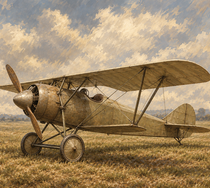
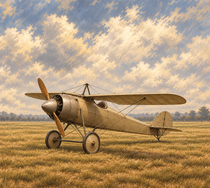
Correct five unit portraits to match their subjects
Replace the transport locomotive, low unmarked armoured car, two-turret battleship, Morane Type N monoplane and two-pusher Gotha G.Vb paintings. Install all 15 native portrait exports, update pinned manifests and record the all-48 portrait audit and remaining comparisons in PLAN.md.

diff --git a/art/portraits/armored-car/prompt.md b/art/portraits/armored-car/prompt.md
@@ -2,21 +2,17 @@
 id: portraits/armored-car
 title: Armoured car
 kind: portrait
-status: candidate
+status: revised
 runtime_ids: CP_armCar
 masters: portrait.png
 ---
 
 ## Look
-Owner-neutral picture of the unit shown in the unit panel at 210x188: a riveted armoured car with a small turret,
+Owner-neutral picture of the unit shown in the unit panel at 210x188: a low riveted armoured car with a small round turret,
 in a quiet period scene with subdued ochre and sepia values under a pale cloudy sky.
 
 ## Base prompt
-Asset: owner-neutral WWI strategy unit portrait. Scene: a tall, narrow WWI armoured car seen nearly head-on from slightly front-left: dark bonnet low in the centre, a riveted tall turret upper right, a spoked wheel on the right; broad, pale, cloudy
-ochre sky. Paint wool, leather, wood, metal and natural surfaces with restrained connected brushwork
-and selective detail. Fully opaque full-bleed landscape illustration at 105:94, at least 1260x1128,
-preferably 1680x1504, the essential subject safe inside the centred 105:94 crop; extend the scene
-naturally to all edges.
+Use case: historical-scene. Create ONE newly authored opaque full-bleed WWI strategy game UNIT PORTRAIT, landscape aspect105:94, ideally1680x1504 or larger. Same restrained ochre, sepia, khaki, olive and sage palette and continuous hand-painted digital brushwork as reference portrait. Pale cloudy sky, diffuse light from upper left, quiet period scene, crisp readable subject at210x188 with selective mechanical detail. Complete principal subject fits inside safe centred105:94 crop. Reference atlas is EQUIPMENT/IDENTITY reference only: replace its technical magenta with natural unmarked khaki/grey paint and use a normal low three-quarter scene camera, NOT the six-view layout. No text, numbers, letters, flags, crosses, insignia, emblems, national colours, faction tint, frames, UI, watermarks, photo, pixel art or3D render. Exactly one complete main vehicle. Subject: the WWI armoured car matching reference atlas: ONE low compact riveted rectangular armoured body with sloping long bonnet at FRONT, square radiator grille and TWO round brass headlights, FOUR narrow exposed spoked wheels TOTAL (two per side), ONE small LOW circular cylindrical turret near rear half with ONE short dark machine gun, rectangular rear compartment and riveted access door. No tall tower, stacked turret or high armoured lorry cab. Natural subdued khaki/olive armour, dark tyres, brass hardware. All panels entirely plain and unmarked; ABSOLUTELY NO crosses, flags, symbols, decals, badges, logos, letters or numbers anywhere. Parked on quiet rural dirt lane, low front-left three-quarter view, front pointing LEFT, complete vehicle visible including all visible wheels and gun, distant trees and pale cloudy sky.
 
 ## Variants
 | Variant | Runtime IDs | Prompt delta |
@@ -26,7 +22,8 @@ naturally to all edges.
 ## Post
 `art-review -portrait art/pipeline/portrait-armored-car-v1.json` takes the largest exact centred 105:94
 crop and reduces it with Lanczos3 to 4x (840x752), 2x (420x376) and 1x (210x188) as
-`portrait/armored-car`. Promote into `assets/portraits/armored-car/` and re-index.
+`portrait/armored-car`. Selected exports are installed under `assets/portraits/armored-car/`.
+Gameplay binding remains `CP_armCar`; in-engine panel acceptance is open.
 
 ## Avoid
 - national colours, flags, insignia or faction tint

diff --git a/art/portraits/transport-train/prompt.md b/art/portraits/transport-train/prompt.md
@@ -2,7 +2,7 @@
 id: portraits/transport-train
 title: Transport train
 kind: portrait
-status: candidate
+status: revised
 runtime_ids: CP_transTrain
 masters: portrait.png
 ---
@@ -12,11 +12,7 @@ Owner-neutral picture of the unit shown in the unit panel at 210x188: a single c
 in a quiet period scene with subdued ochre and sepia values under a pale cloudy sky.
 
 ## Base prompt
-Asset: owner-neutral WWI strategy unit portrait. Scene: a railway platform worksite: three foreground workmen in pale shirts and caps, the central one leaning over a long tool, more workmen receding to the right; broad, pale, cloudy
-ochre sky. Paint wool, leather, wood, metal and natural surfaces with restrained connected brushwork
-and selective detail. Fully opaque full-bleed landscape illustration at 105:94, at least 1260x1128,
-preferably 1680x1504, the essential subject safe inside the centred 105:94 crop; extend the scene
-naturally to all edges.
+Use case: historical-scene. Create ONE newly authored opaque full-bleed WWI strategy game UNIT PORTRAIT, landscape aspect105:94, ideally1680x1504 or larger. Same restrained ochre, sepia, khaki, olive and sage palette and continuous hand-painted digital brushwork as reference portrait. Pale cloudy sky, diffuse light from upper left, quiet period scene, crisp readable subject at210x188 with selective mechanical detail. Complete principal subject fits inside safe centred105:94 crop. Reference atlas is EQUIPMENT/IDENTITY reference only: replace its technical magenta with natural unmarked khaki/grey paint and use a normal low three-quarter scene camera, NOT the six-view layout. No text, numbers, letters, flags, crosses, insignia, emblems, national colours, faction tint, frames, UI, watermarks, photo, pixel art or3D render. Exactly one complete main vehicle. Subject: the compact WWI transport STEAM LOCOMOTIVE from reference atlas. A single short black riveted steam tank locomotive, round horizontal boiler at FRONT, ONE tall narrow cylindrical chimney, ONE steam dome, a compact boxy enclosed rear cab with curved roof, coal bunker immediately behind cab, SIX large driving wheels TOTAL (three per side), connecting rods, buffer beams with two round buffers and hook coupling. Natural blackened steel boiler, muted olive/brown cab, brass valves; sacks and wooden crates beside track. Complete locomotive on rural European standard-gauge track, its front to LEFT, low three-quarter front-left view, grassy railway verge, distant small station under cloudy sky. Engine is entire main subject centred and fills lower two-thirds. No passenger coaches or people dominating foreground; not a workmen portrait. No locomotive cropped or hidden.
 
 ## Variants
 | Variant | Runtime IDs | Prompt delta |
@@ -26,7 +22,8 @@ naturally to all edges.
 ## Post
 `art-review -portrait art/pipeline/portrait-transport-train-v1.json` takes the largest exact centred 105:94
 crop and reduces it with Lanczos3 to 4x (840x752), 2x (420x376) and 1x (210x188) as
-`portrait/transport-train`. Promote into `assets/portraits/transport-train/` and re-index.
+`portrait/transport-train`. Selected exports are installed under `assets/portraits/transport-train/`.
+Gameplay binding remains `CP_transTrain`; in-engine panel acceptance is open.
 
 ## Avoid
 - national colours, flags, insignia or faction tint

diff --git a/art/portraits/morane-saulnier-n/prompt.md b/art/portraits/morane-saulnier-n/prompt.md
@@ -12,7 +12,8 @@ Owner-neutral morane-saulnier n in a quiet period scene, matching the existing p
 paintings' subdued ochre and sepia palette, cloudy sky and connected brushwork.
 
 ## Base prompt
-Newly authored opaque full-bleed WWI strategy-game unit portrait, 105:94 landscape aspect ideally 1680x1504 or larger. Match the reference portraits: subdued ochre, sepia, khaki, olive and sage; broad connected hand-painted digital brushwork with selective fine mechanical detail; pale cloudy sky and diffuse light from upper left. Rural Europe 1914–1918, calm period scene, owner-neutral. Central subject fully visible and readable at 210x188, safe centered crop. No text, letters, numbers, insignia, flags, faction tint, borders, frame, UI, watermark, pixel art, photograph or 3D render. Subject: A Morane-Saulnier Type N shoulder-wing monoplane with wire bracing, rounded short fuselage and distinctive large blunt bullet spinner, open cockpit and fixed spoked wheels. Single complete aircraft parked on a grassy airfield, nose to the left, low eye-level three-quarter side view, full wings and tail within canvas, natural unmarked khaki fabric and metal; no duplicate aircraft.
+Use case: historical-scene. Create ONE newly authored opaque full-bleed WWI strategy game UNIT PORTRAIT, landscape aspect105:94, ideally1680x1504 or larger. Same restrained ochre, sepia, khaki, olive and sage palette and continuous hand-painted digital brushwork as reference portrait. Pale cloudy sky, diffuse light from upper left, quiet period scene, crisp readable subject at210x188 with selective mechanical detail. Complete principal subject fits inside safe centred105:94 crop. Reference painting is STYLE only; its incorrect biplane structure must NOT be copied. No text, numbers, letters, flags, crosses, insignia, emblems, national colours, faction tint, frames, UI, watermarks, photo, pixel art or3D render. Exactly one complete main vehicle. Subject: a Morane-Saulnier Type N single-seat MONOPLANE fighter parked on grassy WWI airfield, nose LEFT, low front-left three-quarter side view. Exactly ONE pair of shoulder-mounted MAIN WINGS, one left and one right at the SAME single height, each joining the upper sides of rounded fuselage. NO upper/lower stacked wings and NO interplane struts or second wing under fuselage. Fine wire bracing from a small kingpost above fuselage to the single wings, and from undercarriage to wings. Compact rounded tapered fuselage, distinctive LARGE blunt bullet-shaped nose spinner covering most rotary engine, TWO natural wooden propeller blades at the FRONT, ONE open cockpit aft of wing, small round fin, two spoked fixed wheels, low tail skid. Natural unmarked tan/khaki fabric and metal. Wings, propeller, wheels and tail complete inside canvas. Tiny rear tailplane is distinct from the sole main wing; no second main wing.
+Framing: aircraft occupies no more than75% of canvas width; generous grassy/sky margins around every extremity, safe inside centred105:94 crop.
 
 ## Variants
 | Variant | Runtime IDs | Prompt delta |

diff --git a/art/portraits/battleship/prompt.md b/art/portraits/battleship/prompt.md
@@ -8,11 +8,11 @@ masters: portrait.png
 ---
 
 ## Look
-Owner-neutral battleship in a quiet period scene, matching the existing portrait
-paintings' subdued ochre and sepia palette, cloudy sky and connected brushwork.
+Owner-neutral battleship with two twin-gun turrets, two funnels and one mast, matching the
+selected tactical sprite in a quiet coastal scene with subdued ochre and sepia brushwork.
 
 ## Base prompt
-Newly authored opaque full-bleed WWI strategy-game unit portrait, 105:94 landscape aspect ideally 1680x1504 or larger. Match the reference portraits: subdued ochre, sepia, khaki, olive and sage; broad connected hand-painted digital brushwork with selective fine mechanical detail; pale cloudy sky and diffuse light from upper left. Rural Europe 1914–1918, calm period scene, owner-neutral. Central subject fully visible and readable at 210x188, safe centered crop. No text, letters, numbers, insignia, flags, faction tint, borders, frame, UI, watermark, pixel art, photograph or 3D render. Subject: A large early dreadnought battleship with heavy paired-gun turrets, two funnels and a tall mast, bow to the left, complete ship in three-quarter side view on quiet coastal water.
+Use case: historical-scene. Create ONE newly authored opaque full-bleed WWI strategy game UNIT PORTRAIT, landscape aspect105:94, ideally1680x1504 or larger. Same restrained ochre, sepia, khaki, olive and sage palette and continuous hand-painted digital brushwork as reference portrait. Pale cloudy sky, diffuse light from upper left, quiet period scene, crisp readable subject at210x188 with selective mechanical detail. Complete principal subject fits inside safe centred105:94 crop. Reference atlas is EQUIPMENT/IDENTITY reference only: replace its technical magenta with natural unmarked khaki/grey paint and use a normal low three-quarter scene camera, NOT the six-view layout. No text, numbers, letters, flags, crosses, insignia, emblems, national colours, faction tint, frames, UI, watermarks, photo, pixel art or3D render. Exactly one complete main vehicle. Subject: early WWI battleship matching the reference sprite: broad armoured hull with pointed bow to LEFT, rounded stern to RIGHT, warm teak deck, exactly TWO main twin-gun turrets TOTAL: ONE low twin turret forward of bridge, ONE low twin turret aft of both funnels. Exactly FOUR large barrels TOTAL. No superimposed turrets, no extra turret behind the forward turret, no wing turrets. One compact forward bridge, exactly TWO thick black funnels in centre line behind bridge, and ONE simple short mast. Low three-quarter broadside view from off the port bow, entire ship including bow/stern and mast inside canvas on quiet coastal water. Quiet muted neutral grey/khaki hull, small restrained ripple, distant low rural coast. Preserve two-turret arrangement so both turrets are clearly visible.
 
 ## Variants
 | Variant | Runtime IDs | Prompt delta |

diff --git a/art/portraits/gotha-g-vb/prompt.md b/art/portraits/gotha-g-vb/prompt.md
@@ -12,7 +12,7 @@ Owner-neutral gotha g vb in a quiet period scene, matching the existing portrait
 paintings' subdued ochre and sepia palette, cloudy sky and connected brushwork.
 
 ## Base prompt
-Newly authored opaque full-bleed WWI strategy-game unit portrait, 105:94 landscape aspect ideally 1680x1504 or larger. Match the reference portraits: subdued ochre, sepia, khaki, olive and sage; broad connected hand-painted digital brushwork with selective fine mechanical detail; pale cloudy sky and diffuse light from upper left. Rural Europe 1914–1918, calm period scene, owner-neutral. Central subject fully visible and readable at 210x188, safe centered crop. No text, letters, numbers, insignia, flags, faction tint, borders, frame, UI, watermark, pixel art, photograph or 3D render. Subject: A Gotha G.Vb twin-engine biplane bomber, long narrow fuselage with an open nose gun position, two pusher engines between the wings, paired rearward-facing propellers, fixed landing gear. Single complete aircraft parked on a grassy airfield, nose to the left, low eye-level three-quarter side view, full wings and tail within canvas, natural unmarked khaki fabric and metal; no duplicate aircraft.
+Use case: historical-scene. Create ONE newly authored opaque full-bleed WWI strategy game unit portrait, landscape105:94 ideally1680x1504. Input painting is a STYLE AND COMPOSITION reference only: preserve its connected hand-painted brushwork, subdued ochre/sepia/khaki palette, pale cloudy sky, quiet grassy airfield and low three-quarter side view with nose LEFT. Correct the aircraft's propulsion. Subject: ONE complete Gotha G.Vb heavy BIPLANE bomber, TWO main wing levels, long narrow central fuselage with open nose gun station and two crew positions aft, broad multi-bay straight wings, a nacelle between the wings on EACH side of fuselage. Exactly TWO inline engines TOTAL, one per nacelle. Each nacelle has ONE wooden PUSHER propeller at its REAR trailing end (toward RIGHT/tail), giving exactly TWO propellers TOTAL. The FORWARD/LEFT end of each engine nacelle is a plain radiator nose with NO front propeller, NO front propeller blades, NO spinner. Make BOTH rear pusher propellers visibly readable behind engines. No push-pull configuration, no four propellers, no engine in central fuselage. Dark natural steel engines, tan unmarked fabric wings and fuselage, two small vertical tail fins, spoked fixed landing gear and rear skid. Entire aircraft including wingtips, tail and propellers safely inside centred105:94 crop. Strong readable silhouette at210x188, natural materials, selective fine detail and soft upper-left daylight. No lettering, numbers, flags, crosses, insignia, markings, faction tint, borders, UI, watermark, photo, pixel art or3D render.
 
 ## Variants
 | Variant | Runtime IDs | Prompt delta |

diff --git a/PLAN.md b/PLAN.md
@@ -35,7 +35,7 @@ Tick a box only with evidence you ran. Record decisions here, not their history.
   events, save/resume, victory and score, the energy account with repair and production).
 - **Art**: masters and `prompt.md` in `art/<kind>/<family>/`, runtime PNGs in `assets/`, `art/index.json`
   generated by `just art-index`. 158 families (21 terrain with 158 runtime IDs, 31 units, 48 portraits,
-  14 interface, 44 screens): 49 selected/revised families and 109 candidates. All portraits have 1×/2×/4×
+  14 interface, 44 screens): 51 selected/revised families and 107 candidates. All portraits have 1×/2×/4×
   exports; five tank, five naval and six aircraft families have complete sprite exports but await gameplay bindings.
   Review them in the art book (`just artbook`) and the comparison
   desk (`just gfx-game-review`), and the PULSE render against the reference with `just reference`.
@@ -104,9 +104,17 @@ Tick a box only with evidence you ran. Record decisions here, not their history.
       and pass alpha guards; white sheets, grass fixtures and 48-pixel silhouettes reviewed under
       `build/review/aircraft-cp/`. Gameplay class bindings remain open. (2026-10-22)
 - [ ] Tactical sprites for the other 17 original unit types: six facings, three palettes, normal/spent, 2×/4×.
+      Construction unit, static/mobile AA, anti-tank, static balloon; Morane-Saulnier N, DH2, Nieuport XVII,
+      SPAD VII/XIII, S.E.5a, Sopwith Camel, Voisin III, DH4, Gotha G.Vb, Handley Page O/400 and
+      Zeppelin-Staaken R.VI.
+- [x] Correct five portrait mismatches: two-turret battleship, transport locomotive, unmarked low-turret
+      armoured car, Morane Type N monoplane and Gotha G.Vb with two rear pushers. All 15 replacement
+      1×/2×/4× exports decode and are opaque; source pins and runtime hashes checked. (2026-10-22)
 - [ ] Final portrait-to-sprite consistency review for all 48 unit families: subject, equipment, wing/turret
       count, palette and framing; regenerate mismatches and retain the native 1×/2×/4× portrait exports.
-      Six German aircraft pairs reviewed in `build/review/aircraft-cp/portrait-pairs.png`.
+      All 48 portraits inspected against prompts and 31 available sprite pairs in
+      `build/review/portraits/audit/`; finish the 17 absent pairs and confirm SPAD VII engine and DH2/Voisin
+      tail details against period references before acceptance.
 - [ ] Confirm whether summer factories, barbed wire, background `trenches` and summer rough/shelled/stony
       ground are needed, then author them.
 - [ ] Campaign, intermission, production/repair and editor illustrations once those features exist.
